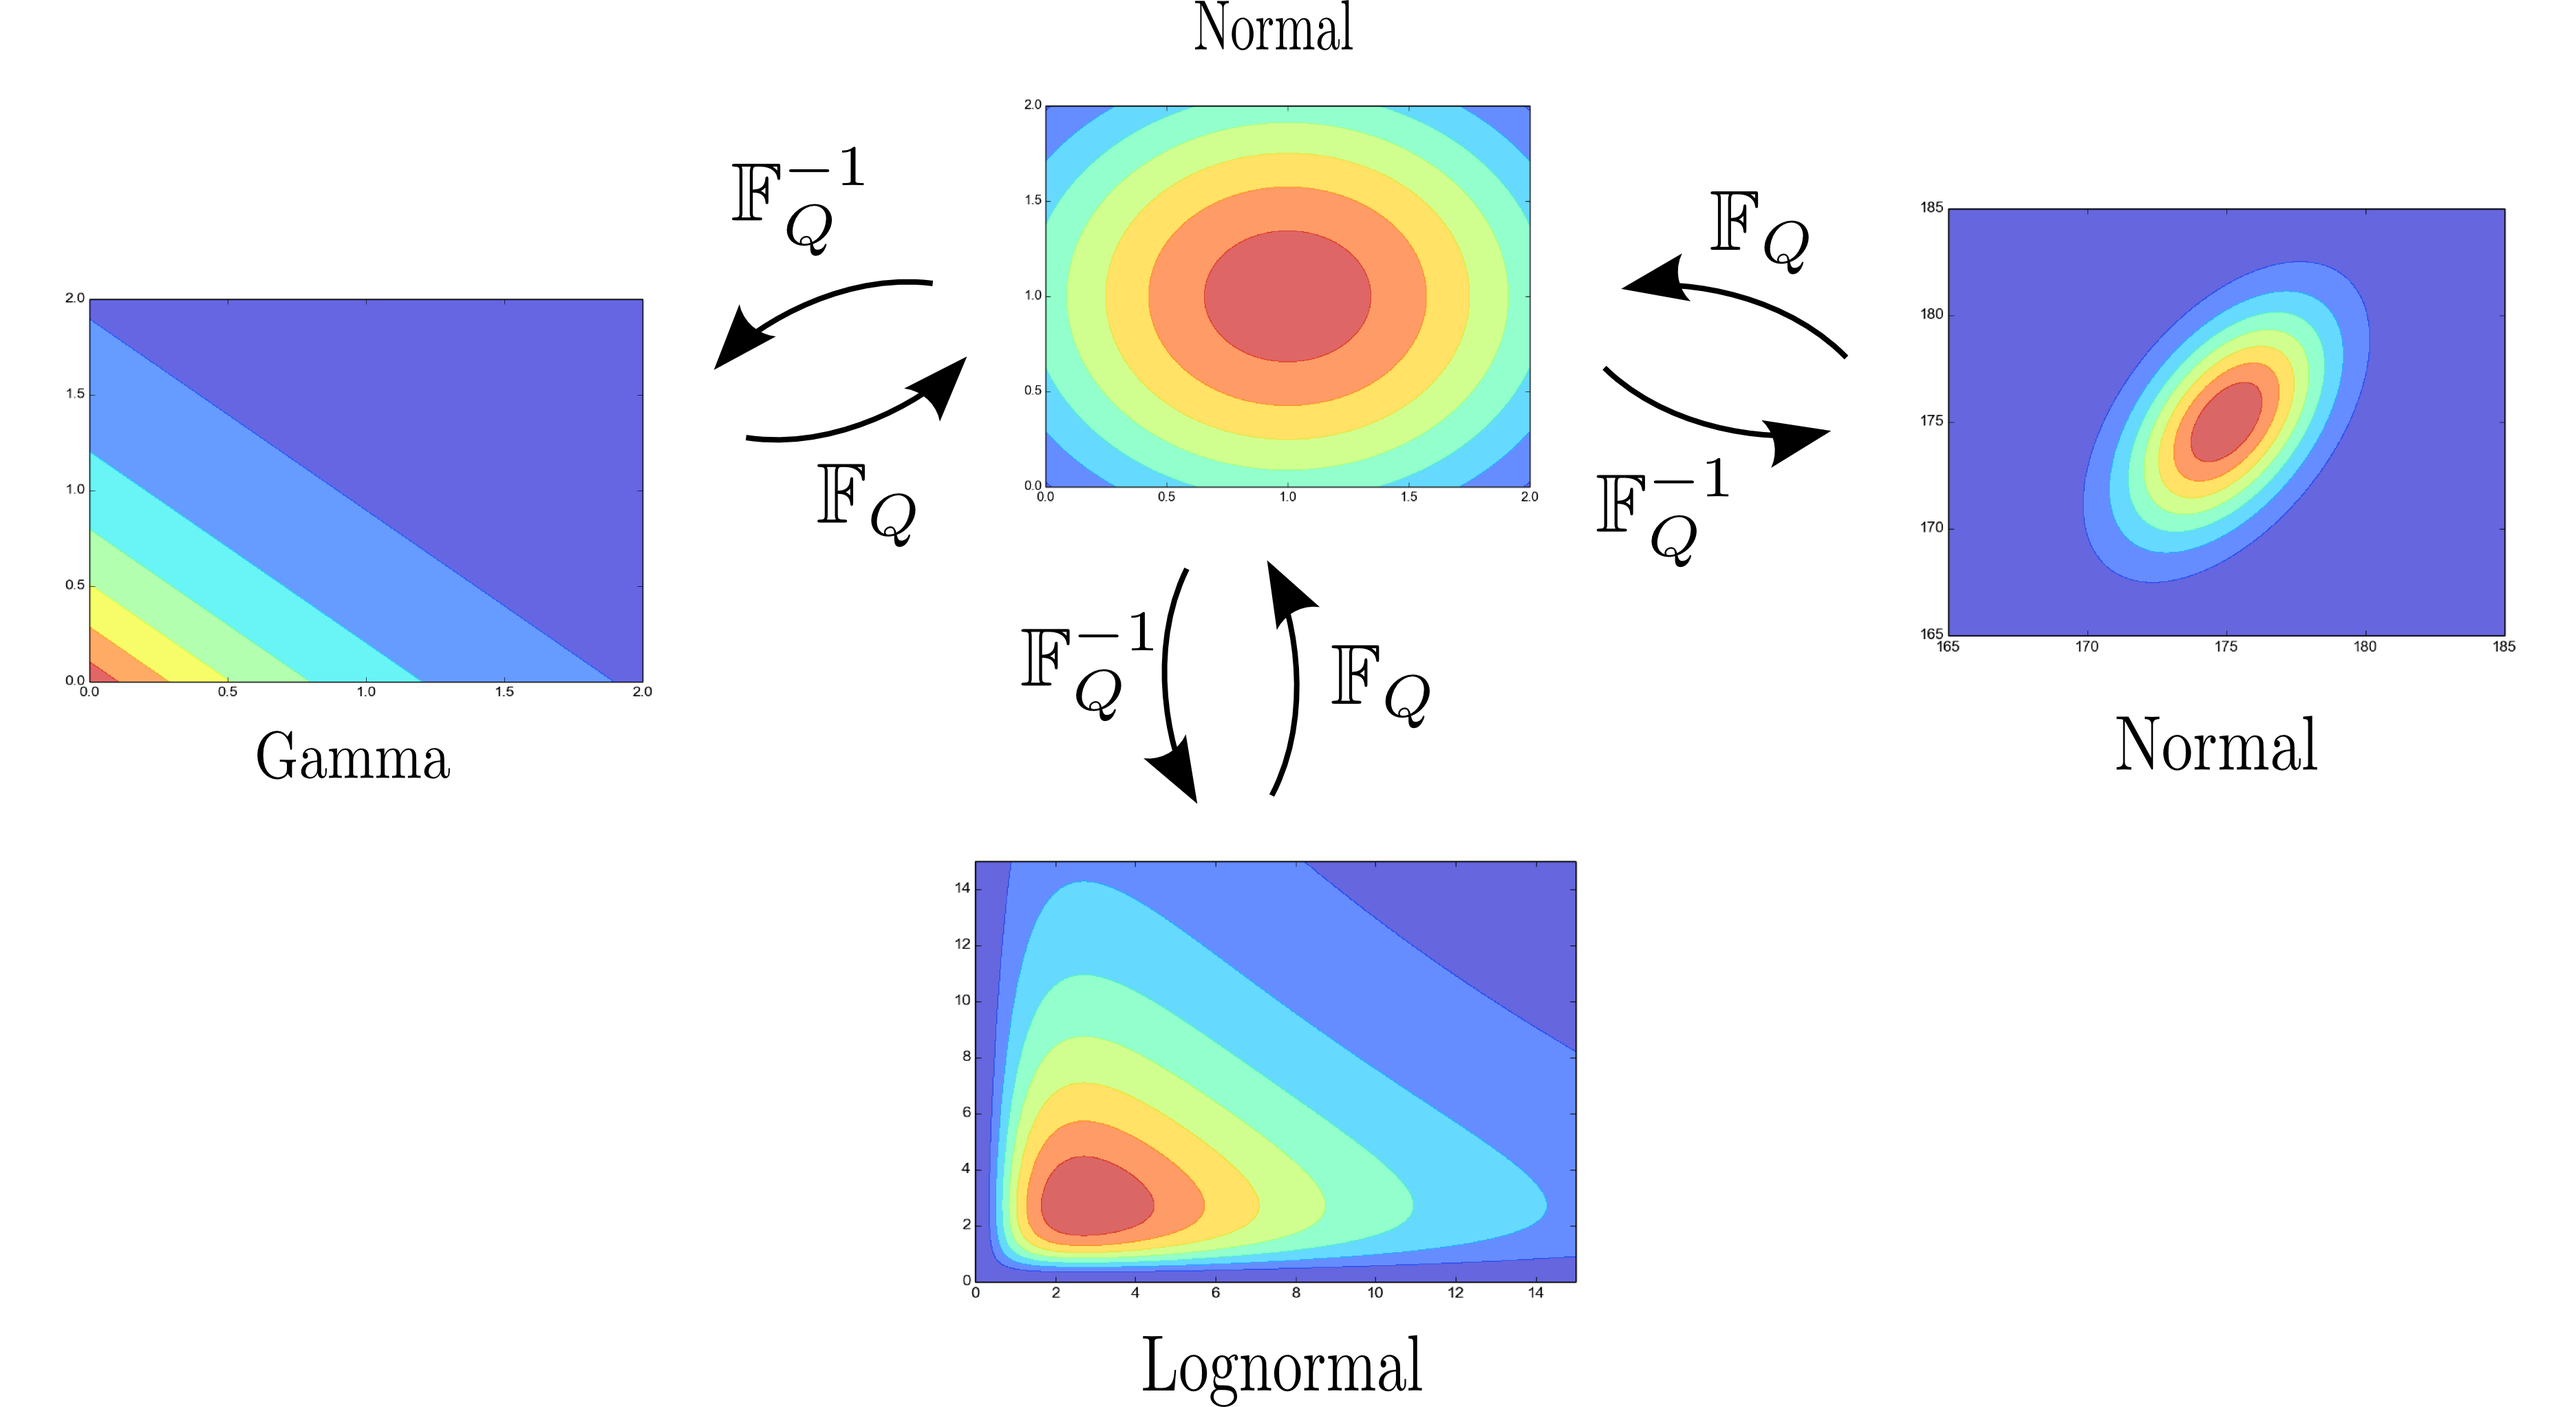
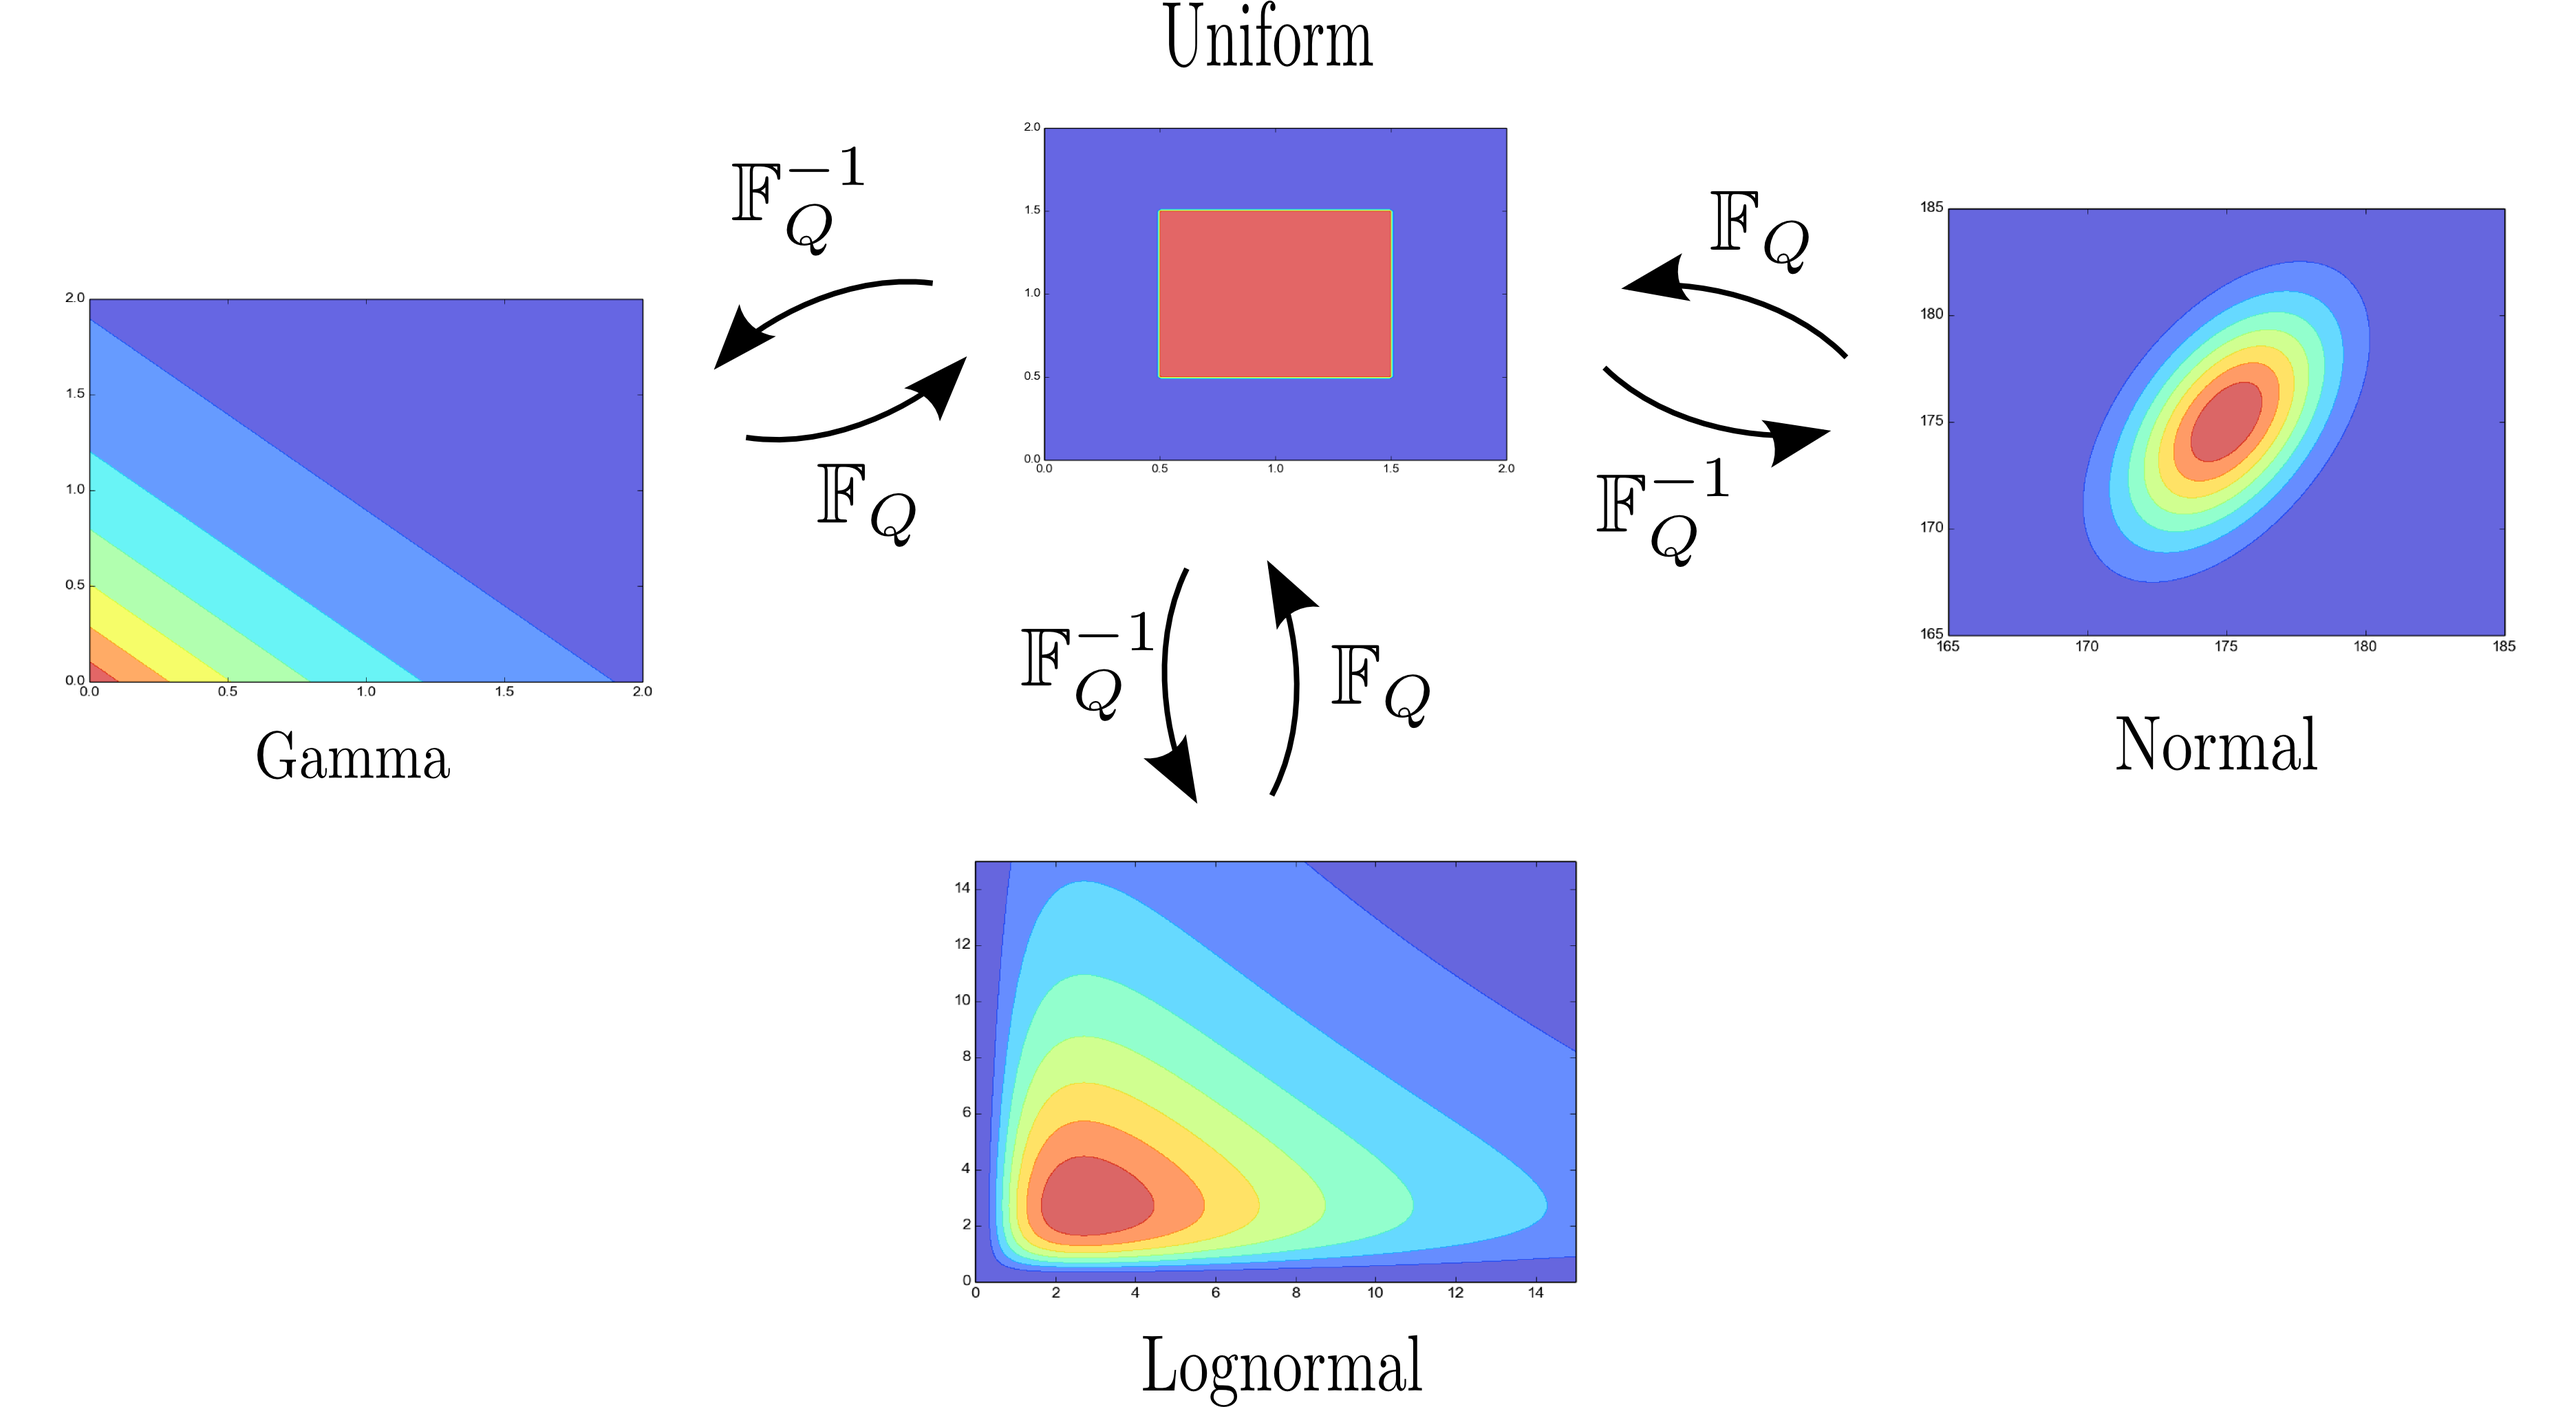
small changes to all lectrues

Changed region(s): [[0.4062, 0.0, 0.5938, 0.3697]]

diff --git a/lecture3.tex b/lecture3.tex
@@ -80,6 +80,31 @@ columns=fixed
   \maketitle
 \end{frame}
 
+
+
+\begin{frame}[fragile]{Relevant links}
+  \begin{center}
+     \includegraphics[width=.5\textwidth]{chaospy_logo.jpg}
+  \end{center}
+    \begin{alert}{A very basic introduction to scientific Python programming:}
+    \scriptsize
+      \href{http://hplgit.github.io/bumpy/doc/pub/sphinx-basics/index.html}{http://hplgit.github.io/bumpy/doc/pub/sphinx-basics/index.html}\\
+%\verb;http://hplgit.github.io/bumpy/doc/pub/sphinx-basics/index.html;
+  \end{alert}
+  \begin{alert}{Installation instructions:}\\
+  \scriptsize
+      \href{https://github.com/hplgit/chaospy}{https://github.com/hplgit/chaospy}\\
+%\verb;http://github.com/hplgit/chaospy/;
+  \end{alert}
+    \begin{alert}{Interactive sessions:}\\
+  \scriptsize
+\href{http://10.50.3.247:8888/}{http://10.50.3.247:8888/}
+
+%\verb;http://10.50.3.247:8888/;
+  \end{alert}
+\end{frame}
+
+
 \begin{frame}
  \frametitle{Repetition of our model problem}
   We have a simple differential equation
@@ -107,14 +132,14 @@ u'(x) &= g(x) \\
 \inner{u',v} &= \inner{g,v}\quad\mbox{(projection)}
 \end{align*}
 
-With $u\approx\sum_n c_n P_n(x)$ this leads to a linear system for
-the coefficients $c_n$
+With $u(x; q) \approx \hat u_M(x; q) = \sum_{n=0}^N c_n(x) P_n(q)$ this leads to a linear system for
+the coefficients $c_n$.
 \end{frame}
 
 \begin{frame}
  \frametitle{Calculating initial condition using Galerkin}
  \begin{align*}
- \hat u_M(0) &= I,\quad \hat u_M = \sum_{n=0}^N c_n(x)P_n(q)\\
+ \hat u_M(0) &= I, & \hat u_M &= \sum_{n=0}^N c_n(x)P_n(q)\\
   \onslide<2-> {\sum_{n=0}^Nc_n(0)P_n &= I}\\
   \onslide<3-> {\inner{\sum_{n=0}^Nc_n(0)P_n,P_k} &= \inner{ I,P_k}
   & k&=0,\dots,N}\\
@@ -128,7 +153,8 @@ the coefficients $c_n$
 
 \begin{frame}
  \frametitle{Galerkin applied to the differential equation}
- \scriptsize
+%  \scriptsize
+\footnotesize
  \begin{align*}
   \frac{d}{dx}\left(\hat u_M \right) &= -a \hat u_M\\
   \onslide<2-> {\frac{d}{dx}\left(\sum_{n=0}^Nc_nP_n \right) &= -a \sum_{n=0}^Nc_nP_n}\\
@@ -168,21 +194,21 @@ the coefficients $c_n$
     \begin{align*}
         E(P_nP_k)
     \end{align*}
-  \includegraphics[width=\textwidth]{binary_matrix1.png}
+  \includegraphics[width=0.9\textwidth]{binary_matrix1.png}
 \end{center}
      \column{.5\textwidth}
      \begin{center}
     \begin{align*}
         E(aP_nP_k)
     \end{align*}
-  \includegraphics[width=\textwidth]{binary_matrix.png}
+  \includegraphics[width=0.9\textwidth]{binary_matrix.png}
      \end{center}
  \end{columns}
  \end{frame}
 
 \begin{frame}
  \frametitle{Intrusive Galerkin usually converges faster}
-\begin{itemize}
+\begin{itemize}[<+->]
 \item Original problem: one scalar differential equation
 \item Stochastic UQ problem: system of differential equations
 \item The method is called \emph{intrusive Galerkin}
@@ -238,7 +264,6 @@ u_hat = cp.dot(P, c)
   \includegraphics[width=0.85\textwidth]{convergence_gallerkin.png}
  \end{figure}
 \end{frame}
-
 
 
 

diff --git a/lecture2.tex b/lecture2.tex
@@ -86,6 +86,31 @@ columns=fixed
   \maketitle
 \end{frame}
 
+
+
+\begin{frame}[fragile]{Relevant links}
+  \begin{center}
+     \includegraphics[width=.5\textwidth]{chaospy_logo.jpg}
+  \end{center}
+    \begin{alert}{A very basic introduction to scientific Python programming:}
+    \scriptsize
+      \href{http://hplgit.github.io/bumpy/doc/pub/sphinx-basics/index.html}{http://hplgit.github.io/bumpy/doc/pub/sphinx-basics/index.html}\\
+%\verb;http://hplgit.github.io/bumpy/doc/pub/sphinx-basics/index.html;
+  \end{alert}
+  \begin{alert}{Installation instructions:}\\
+  \scriptsize
+      \href{https://github.com/hplgit/chaospy}{https://github.com/hplgit/chaospy}\\
+%\verb;http://github.com/hplgit/chaospy/;
+  \end{alert}
+    \begin{alert}{Interactive sessions:}\\
+  \scriptsize
+\href{http://10.50.3.247:8888/}{http://10.50.3.247:8888/}
+
+%\verb;http://10.50.3.247:8888/;
+  \end{alert}
+\end{frame}
+
+
 \begin{frame}
  \frametitle{Repetition of our model problem}
   We have a simple differential equation
@@ -978,6 +1003,29 @@ var = cp.Var(u_hat, dist)
 \end{lstlisting}
 
 \end{chaospy}
+
+
+\begin{frame}[fragile]{Thank you}
+  \begin{center}
+     \includegraphics[width=.5\textwidth]{chaospy_logo.jpg}
+  \end{center}
+    \begin{alert}{A very basic introduction to scientific Python programming:}
+    \scriptsize
+      \href{http://hplgit.github.io/bumpy/doc/pub/sphinx-basics/index.html}{http://hplgit.github.io/bumpy/doc/pub/sphinx-basics/index.html}\\
+%\verb;http://hplgit.github.io/bumpy/doc/pub/sphinx-basics/index.html;
+  \end{alert}
+  \begin{alert}{Installation instructions:}\\
+  \scriptsize
+      \href{https://github.com/hplgit/chaospy}{https://github.com/hplgit/chaospy}\\
+%\verb;http://github.com/hplgit/chaospy/;
+  \end{alert}
+    \begin{alert}{Interactive sessions:}\\
+  \scriptsize
+\href{http://10.50.3.247:8888/}{http://10.50.3.247:8888/}
+
+%\verb;http://10.50.3.247:8888/;
+  \end{alert}
+\end{frame}
 
 
 \end{document}

diff --git a/lecture4.tex b/lecture4.tex
@@ -207,8 +207,8 @@ P = cp.orth_ttr(5, dist_R)|\pause|
 nodes_R = dist_R.sample(2*len(P), "M")|\pause|
 nodes_Q = dist_Q.inv(dist_R.fwd(s_R))|\pause|
 
-samples_u = [u(x, s[0], s[1]) for s in s_Q.T]|\pause|
-U_hat = cp.fit_regression(P, s_R, samples_u, rule="LS")
+samples_u = [u(x, *node) for node in nodes_Q.T]|\pause|
+u_hat = cp.fit_regression(P, s_R, samples_u, rule="LS")
 \end{lstlisting}
 \end{chaospy}
 
@@ -221,6 +221,29 @@ U_hat = cp.fit_regression(P, s_R, samples_u, rule="LS")
  \end{figure}
 
  \end{frame}
+
+ 
+\begin{frame}[fragile]{Thank you}
+  \begin{center}
+     \includegraphics[width=.5\textwidth]{chaospy_logo.jpg}
+  \end{center}
+    \begin{alert}{A very basic introduction to scientific Python programming:}
+    \scriptsize
+      \href{http://hplgit.github.io/bumpy/doc/pub/sphinx-basics/index.html}{http://hplgit.github.io/bumpy/doc/pub/sphinx-basics/index.html}\\
+%\verb;http://hplgit.github.io/bumpy/doc/pub/sphinx-basics/index.html;
+  \end{alert}
+  \begin{alert}{Installation instructions:}\\
+  \scriptsize
+      \href{https://github.com/hplgit/chaospy}{https://github.com/hplgit/chaospy}\\
+%\verb;http://github.com/hplgit/chaospy/;
+  \end{alert}
+    \begin{alert}{Interactive sessions:}\\
+  \scriptsize
+\href{http://10.50.3.247:8888/}{http://10.50.3.247:8888/}
+
+%\verb;http://10.50.3.247:8888/;
+  \end{alert}
+\end{frame}
 
 
 \end{document}

diff --git a/lecture1.tex b/lecture1.tex
@@ -709,6 +709,9 @@ mean, var = cp.E(u_hat, dist), cp.Var(u_hat, dist)
 \end{chaospy}
 
 
+
+
+
 \begin{frame}
   \frametitle{The curse of dimensionality}
   \includegraphics[height = 0.85\textheight]{dimensionality.png}
@@ -729,6 +732,30 @@ mean, var = cp.E(u_hat, dist), cp.Var(u_hat, dist)
 \includegraphics[width=0.9\textwidth]{k_convergence.png}
  \end{frame}
 
+ 
+ 
+\begin{frame}[fragile]{Thank you}
+  \begin{center}
+     \includegraphics[width=.5\textwidth]{chaospy_logo.jpg}
+  \end{center}
+    \begin{alert}{A very basic introduction to scientific Python programming:}
+    \scriptsize
+      \href{http://hplgit.github.io/bumpy/doc/pub/sphinx-basics/index.html}{http://hplgit.github.io/bumpy/doc/pub/sphinx-basics/index.html}\\
+%\verb;http://hplgit.github.io/bumpy/doc/pub/sphinx-basics/index.html;
+  \end{alert}
+  \begin{alert}{Installation instructions:}\\
+  \scriptsize
+      \href{https://github.com/hplgit/chaospy}{https://github.com/hplgit/chaospy}\\
+%\verb;http://github.com/hplgit/chaospy/;
+  \end{alert}
+    \begin{alert}{Interactive sessions:}\\
+  \scriptsize
+\href{http://10.50.3.247:8888/}{http://10.50.3.247:8888/}
+
+%\verb;http://10.50.3.247:8888/;
+  \end{alert}
+\end{frame}
+ 
 
 %\begin{frame}
 %  \frametitle{What happens if we choose the wrong distribution}

diff --git a/figures/gallerkin.py b/figures/gallerkin.py
@@ -40,7 +40,7 @@ pl.plot(-1,1, "k--")
 pl.plot(-1,1, "r")
 pl.plot(-1,1, "b")
 pl.plot(-1,1, "g")
-pl.legend(["Mean","Variance", "Gaussian quadrature","Point collocation","Intrusive Gallerkin"],loc=3,prop={"size" :12})
+pl.legend(["Mean","Variance", "Spectral projection","Point collocation","Intrusive Galerkin"],loc=3,prop={"size" :12})
 pl.xlim([5,30])
 pl.ylim([10**-22,10**0])
 

diff --git a/figures/distributions.py b/figures/distributions.py
@@ -47,7 +47,16 @@ plt.contourf(s, t,dist.pdf([t,s]),alpha=0.6)
 plt.savefig("normal.png")
 
 
+dist = cp.Iid(cp.Uniform(0.5,1.5),2)
+#dist = cp.J(dist[0],dist[1])
+t, s = np.linspace(0,2,100), np.linspace(0,2,100)
+i1, i2 = np.mgrid[:100,:100]
+t = t[i1]; s = s[i2]
 
+
+plt.figure()
+plt.contourf(s, t,dist.pdf([t,s]),alpha=0.6)
+plt.savefig("uniform.png")
 
 
 
